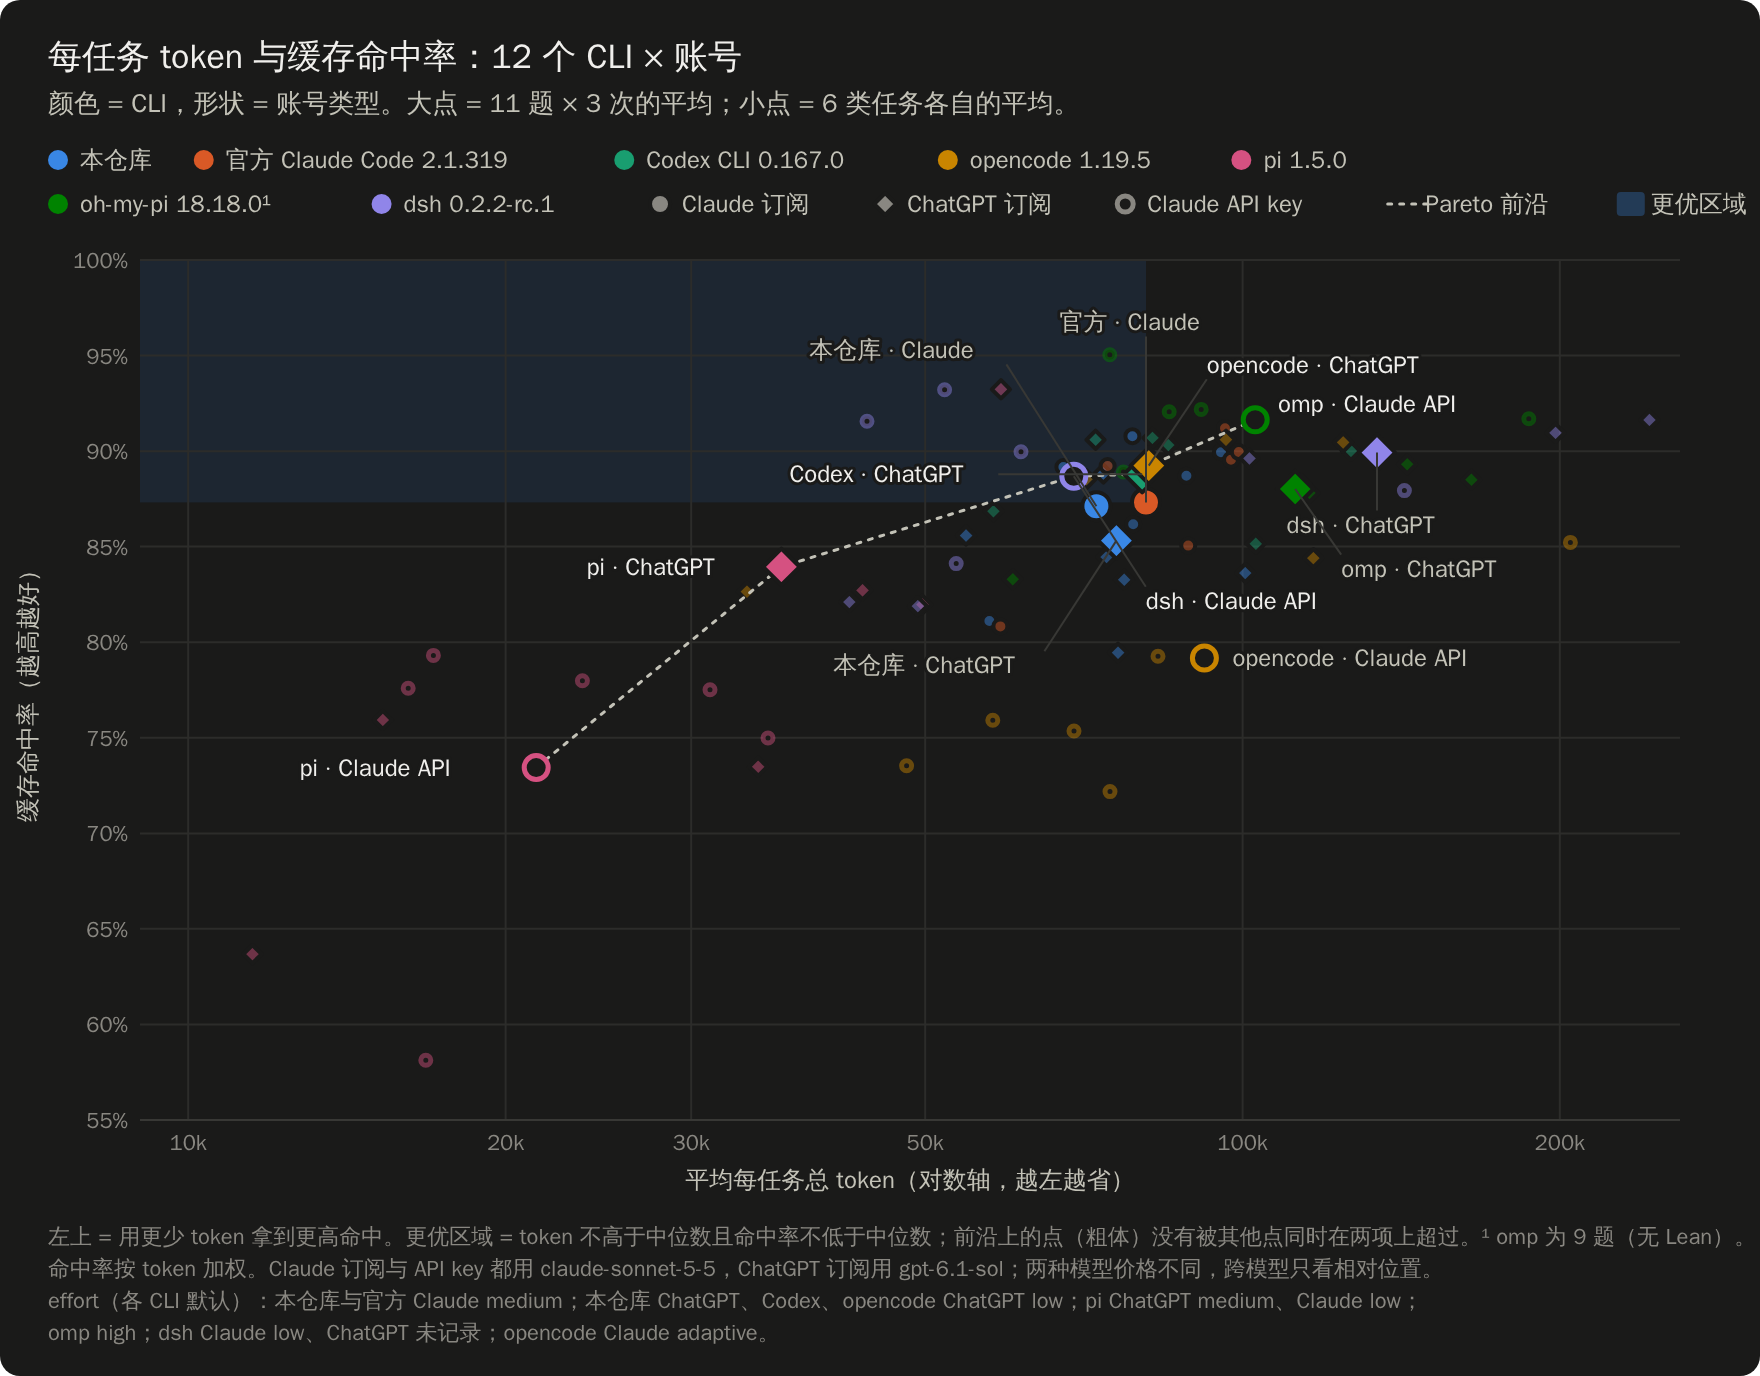
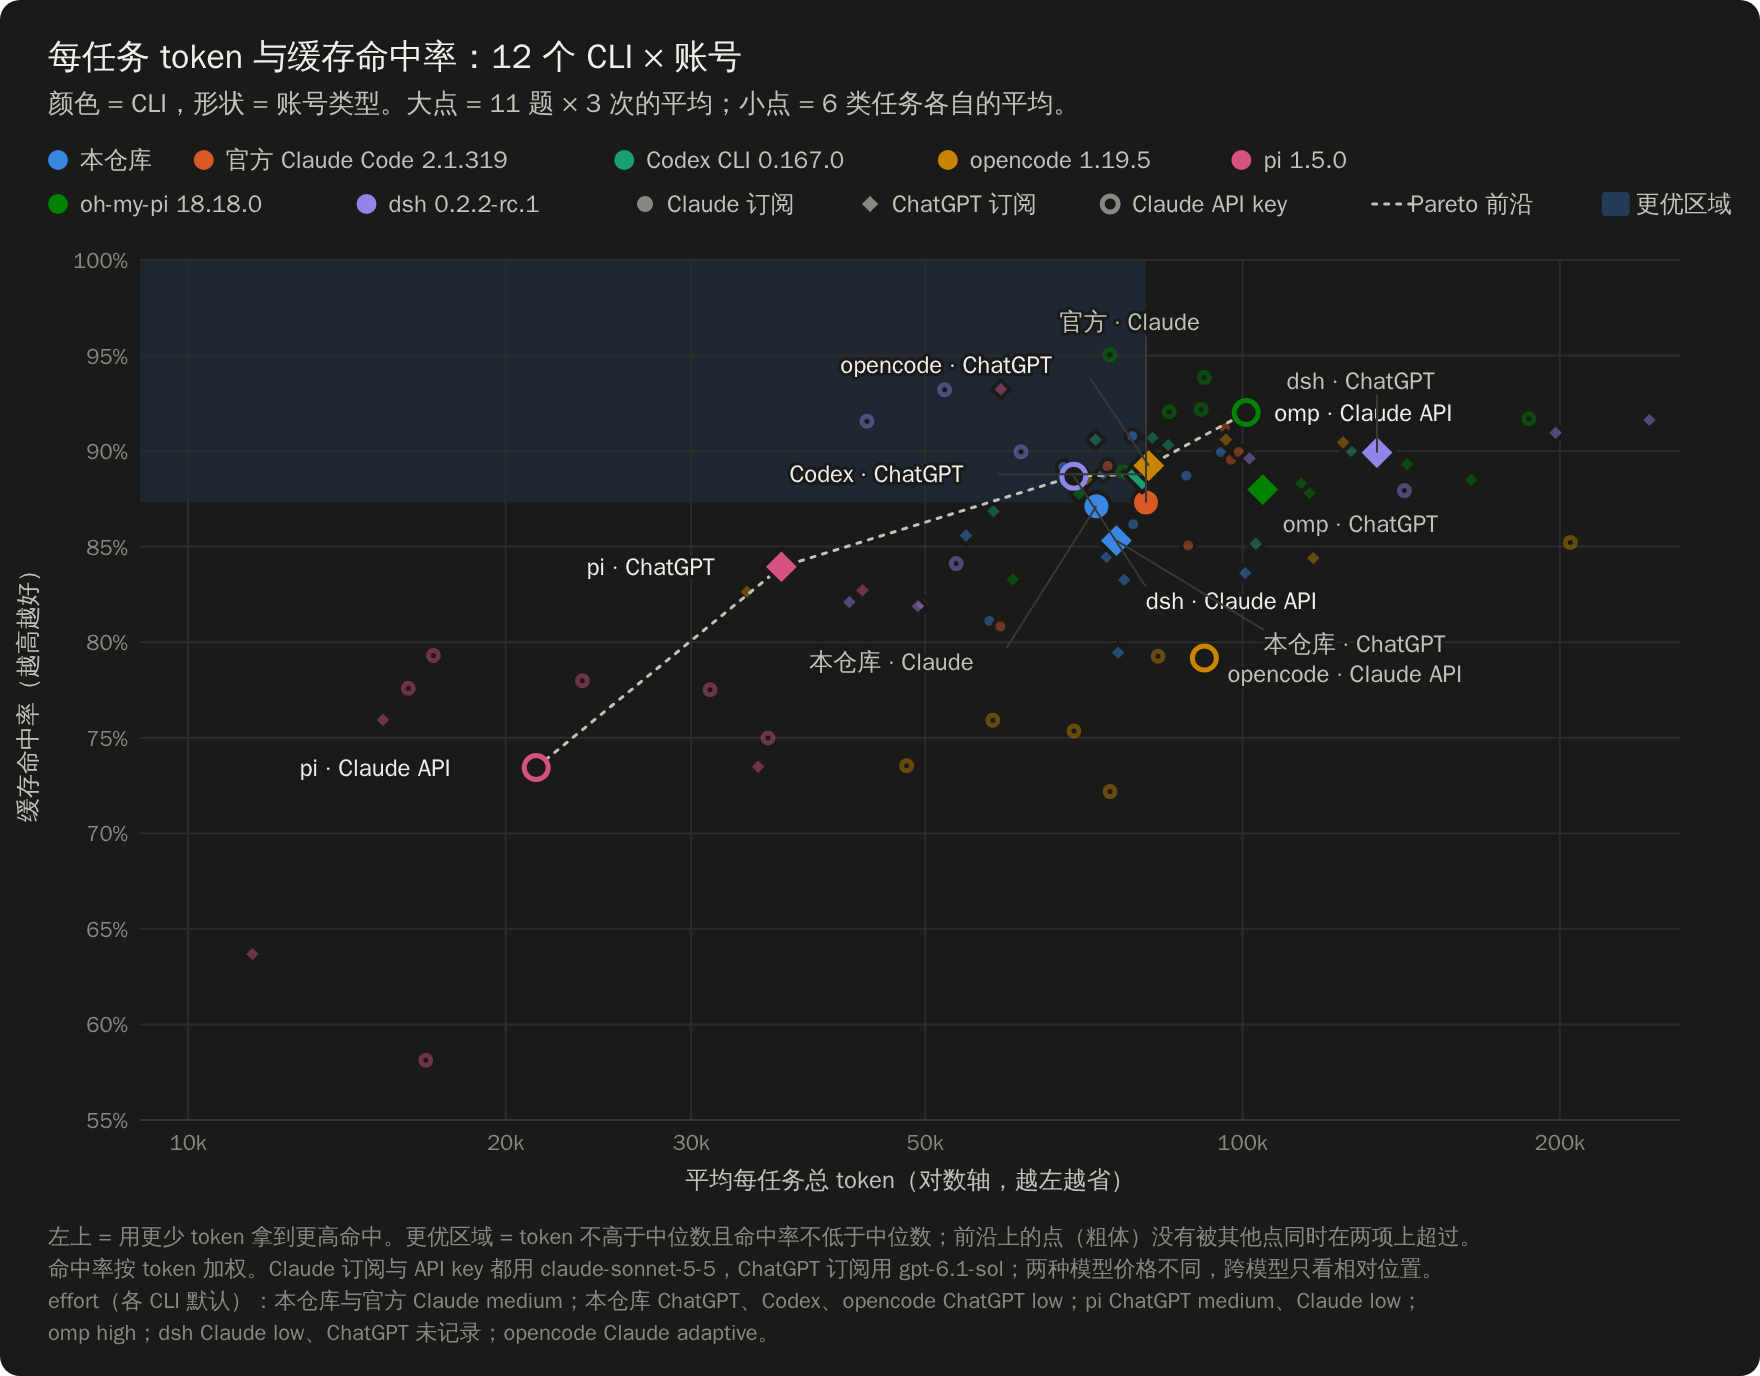
docs: update cache charts with oh-my-pi Lean runs (11 tasks)

diff --git a/docs/features/cache-benchmark.md b/docs/features/cache-benchmark.md
@@ -104,13 +104,13 @@ pi 与 opencode 另用 Claude API key 跑了一组 `claude-sonnet-5-5`（见第 
 
 横轴是每任务平均总 token（对数轴，越左越省），纵轴是按 token 加权的缓存命中率（越高越好），左上角最好。只看命中率会奖励把大段前缀放进缓存的做法，只看 token 又看不出缓存帮了多少，两项放在一起才能看出谁在「少用」和「多复用」上都占优。第二张图把横轴换成 API 等价花费，把缓存读、缓存写和输出的不同价格算进去。[交互版](https://claude.ai/artifact/5c7HFWBN11ZAVcFHConfbm)可切换横轴，悬停查看每个点的明细。
 
-颜色区分 CLI，形状区分账号类型：实心圆 = Claude 订阅（OAuth），菱形 = ChatGPT 订阅（OAuth），空心圆 = Claude API key。Claude 订阅与 API key 都用 `claude-sonnet-5-5`，ChatGPT 订阅用 `gpt-6.1-sol`。每个大点 = 11 题 × 3 次；oh-my-pi 为 9 题（无 Lean），dsh ChatGPT 账号 32 次（1 次 WebSocket 断线未计入）。
+颜色区分 CLI，形状区分账号类型：实心圆 = Claude 订阅（OAuth），菱形 = ChatGPT 订阅（OAuth），空心圆 = Claude API key。Claude 订阅与 API key 都用 `claude-sonnet-5-5`，ChatGPT 订阅用 `gpt-6.1-sol`。每个大点 = 11 题 × 3 次；dsh ChatGPT 账号 32 次（1 次 WebSocket 断线未计入）。
 
 ![每任务 token 与缓存命中率：7 个 CLI 共 12 个账号组合的散点，含 6 类任务的分项点、Pareto 前沿与更优区域](images/cache-benchmark/tokens-vs-hit-light.png#gh-light-mode-only)
 ![每任务 token 与缓存命中率：7 个 CLI 共 12 个账号组合的散点，含 6 类任务的分项点、Pareto 前沿与更优区域](images/cache-benchmark/tokens-vs-hit-dark.png#gh-dark-mode-only)
 
-- 前沿上的 6 个点：pi（Claude API）21k / 73.4%、pi（ChatGPT）37k / 84.0%、dsh（Claude API）69k / 88.7%、Codex 80k / 88.8%、opencode（ChatGPT）82k / 89.2%、oh-my-pi（Claude API）103k / 91.6%。
-- 更优区域（token 不高于中位数 81k 且命中率不低于中位数 87.3%）里是 dsh（Claude API）、Codex 和官方。本仓库 Claude 账号 73k / 87.1% 在区域边缘，与官方相差 0.2 个百分点，在噪声范围内。
+- 前沿上的 6 个点：pi（Claude API）21k / 73.4%、pi（ChatGPT）37k / 84.0%、dsh（Claude API）69k / 88.7%、Codex 80k / 88.8%、opencode（ChatGPT）82k / 89.2%、oh-my-pi（Claude API）101k / 92.0%。
+- 更优区域（token 不高于中位数 80.7k 且命中率不低于中位数 87.6%）里是 dsh（Claude API）和 Codex。本仓库 Claude 账号 73k / 87.1% 与官方 81k / 87.3% 都在区域边缘，二者命中率相差 0.2 个百分点，在噪声范围内。
 - pi 的提示只有约 2.7k，token 最少但新内容占比大，命中率最低；opencode 在 Claude API key 下 92k / 79.2%，两项都落后于同模型的其他 CLI。
 
 ![每任务 API 等价花费与缓存命中率：12 个 CLI × 账号组合的散点，含 6 类任务的分项点、Pareto 前沿与更优区域](images/cache-benchmark/cost-vs-hit-light.png#gh-light-mode-only)
@@ -123,7 +123,7 @@ pi 与 opencode 另用 Claude API key 跑了一组 `claude-sonnet-5-5`（见第 
 | 本仓库 | Claude 订阅 | `claude-sonnet-5-5` | medium（默认） | 72.7k | 87.1% | $0.078 |
 | 官方 Claude Code 2.1.319 | Claude 订阅 | `claude-sonnet-5-5` | medium（默认） | 81.0k | 87.3% | $0.088 |
 | dsh 0.2.2-rc.1 | Claude API key | `claude-sonnet-5-5` | low（默认） | 69.2k | 88.7% | $0.083 |
-| oh-my-pi 18.18.0¹ | Claude API key | `claude-sonnet-5-5` | high（默认） | 102.8k | 91.6% | $0.099 |
+| oh-my-pi 18.18.0 | Claude API key | `claude-sonnet-5-5` | high（默认） | 100.8k | 92.0% | $0.091 |
 | opencode 1.19.5 | Claude API key | `claude-sonnet-5-5` | adaptive（默认） | 92.0k | 79.2% | $0.119 |
 | pi 1.5.0 | Claude API key | `claude-sonnet-5-5` | low（默认） | 21.4k | 73.4% | $0.045 |
 | 本仓库 | ChatGPT 订阅 | `gpt-6.1-sol` | low（账号默认） | 75.9k | 85.3% | $0.050 |
@@ -131,13 +131,13 @@ pi 与 opencode 另用 Claude API key 跑了一组 `claude-sonnet-5-5`（见第 
 | opencode 1.19.5 | ChatGPT 订阅 | `gpt-6.1-sol` | low（默认） | 81.5k | 89.2% | $0.059 |
 | pi 1.5.0 | ChatGPT 订阅 | `gpt-6.1-sol` | medium（默认） | 36.5k | 84.0% | $0.041 |
 | dsh 0.2.2-rc.1 | ChatGPT 订阅 | `gpt-6.1-sol` | 未记录（pi-ai 默认） | 134.2k | 89.9% | $0.073 |
-| oh-my-pi 18.18.0¹ | ChatGPT 订阅 | `gpt-6.1-sol` | high（默认） | 112.2k | 88.0% | $0.087 |
+| oh-my-pi 18.18.0 | ChatGPT 订阅 | `gpt-6.1-sol` | high（默认） | 104.5k | 88.0% | $0.079 |
 
-¹ 9 题（无 Lean）。effort 取代理日志里请求实际携带的值；dsh 的 ChatGPT 请求没有带 effort 字段。dsh ChatGPT 账号只计成功的 32 次 run；第 11 节的平均把失败那次（约 5k token）也算进 33 次，所以那里是 130.2k / 89.8%。
+effort 取代理日志里请求实际携带的值；dsh 的 ChatGPT 请求没有带 effort 字段。dsh ChatGPT 账号只计成功的 32 次 run；第 11 节的平均把失败那次（约 5k token）也算进 33 次，所以那里是 130.2k / 89.8%。
 
-- Claude 侧本仓库 $0.078，比官方 $0.088 低 12%，也低于 dsh $0.083、oh-my-pi $0.099、opencode $0.119；只有 pi $0.045 更低，因为它的提示只有约 2.7k、effort low。
-- ChatGPT 侧缓存读只收输入价的 1/20，各 CLI 差距被压小：pi $0.041、Codex $0.047、本仓库 $0.050、opencode $0.059、dsh $0.073、oh-my-pi $0.087。本仓库比 Codex 贵 6%，差在新会话第一个请求的未缓存部分（6.3k 对 2.7k）。
-- 前沿：pi（ChatGPT）$0.041 / 84.0%、Codex $0.047 / 88.8%、opencode（ChatGPT）$0.059 / 89.2%、dsh（ChatGPT）$0.073 / 89.9%、oh-my-pi（Claude API）$0.099 / 91.6%。更优区域（花费不高于中位数 $0.075 且命中率不低于中位数 87.7%）里是 Codex、opencode 与 dsh 的 ChatGPT 账号；Claude 侧的点都在中位数右边，是两种模型价目不同造成的。
+- Claude 侧本仓库 $0.078，比官方 $0.088 低 12%，也低于 dsh $0.083、oh-my-pi $0.091、opencode $0.119；只有 pi $0.045 更低，因为它的提示只有约 2.7k、effort low。
+- ChatGPT 侧缓存读只收输入价的 1/20，各 CLI 差距被压小：pi $0.041、Codex $0.047、本仓库 $0.050、opencode $0.059、dsh $0.073、oh-my-pi $0.079。本仓库比 Codex 贵 6%，差在新会话第一个请求的未缓存部分（6.3k 对 2.7k）。
+- 前沿：pi（ChatGPT）$0.041 / 84.0%、Codex $0.047 / 88.8%、opencode（ChatGPT）$0.059 / 89.2%、dsh（ChatGPT）$0.073 / 89.9%、oh-my-pi（Claude API）$0.091 / 92.0%。更优区域（花费不高于中位数 $0.075 且命中率不低于中位数 87.6%）里是 Codex、opencode 与 dsh 的 ChatGPT 账号；Claude 侧的点都在中位数右边，是两种模型价目不同造成的。
 
 ![按任务类型：每类一个面板的 token 与命中率散点](images/cache-benchmark/tokens-vs-hit-by-type-light.png#gh-light-mode-only)
 ![按任务类型：每类一个面板的 token 与命中率散点](images/cache-benchmark/tokens-vs-hit-by-type-dark.png#gh-dark-mode-only)
